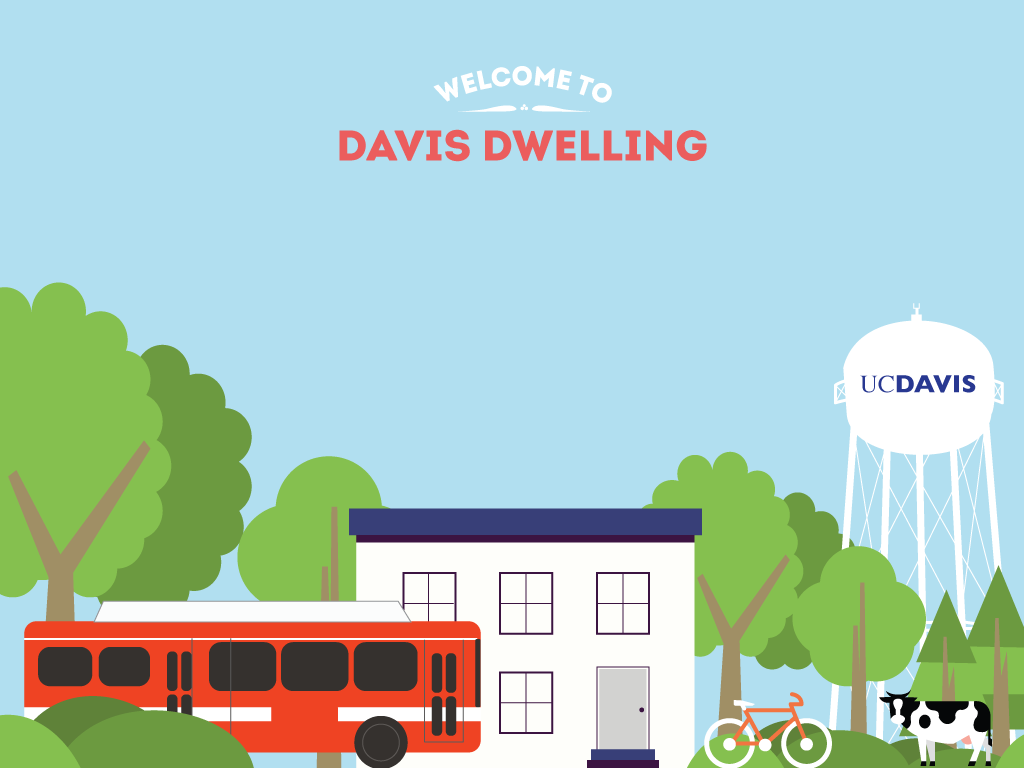
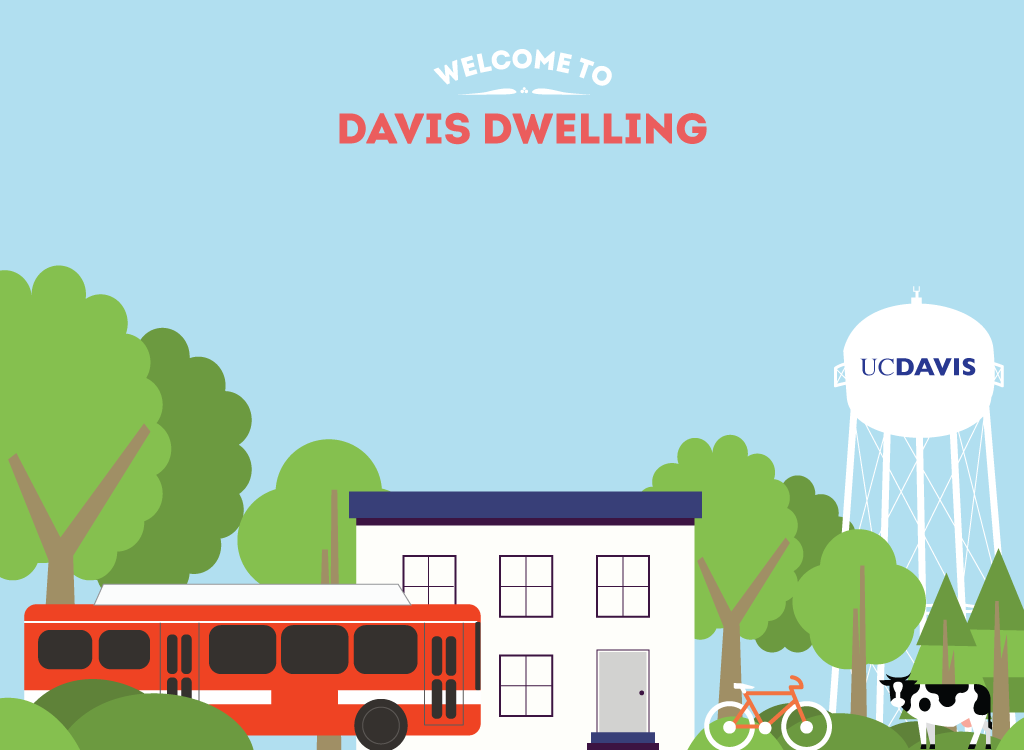
making changes in 4th prototype

diff --git a/4.0/searching.html b/4.0/searching.html
@@ -16,98 +16,101 @@
 
 </head>
 
-<body>
+<body id="searching">
 
     <header>
         <nav>
             <a href="https://validator.w3.org/check?uri=referer" target="_blank"> HTML  </a> |
             <a href="https://jigsaw.w3.org/css-validator/check/referer" target="_blank"> CSS</a>
+
         </nav>
     </header>
 
-    <p>click all options that you'd like to to see in your apartment</p>
-    <br>
+    <section id="searching-main">
+        <p>click all options that you'd like to to see in your apartment</p>
+        <br>
 
-    <section class="row container">
-        <section class="column category">
-            <h4 class="area">AREA OF DAVIS</h4>
-            <form class="area">
-                <input type="checkbox" name="area" value="north"> NORTH</input>
-                <br>
-                <input type="checkbox" name="area" value="west"> WEST</input>
-                <br>
-                <input type="checkbox" name="area" value="central"> CENTRAL</input>
-                <br>
-                <input type="checkbox" name="area" value="east"> EAST</input>
-                <br>
-                <input type="checkbox" name="area" value="east"> SOUTH</input>
-                <br>
-            </form>
-        </section>
+        <section class="row container">
+            <section class="column category">
+                <h4 class="area">AREA OF DAVIS</h4>
+                <form class="area">
+                    <input type="checkbox" name="area" value="north"> NORTH</input>
+                    <br>
+                    <input type="checkbox" name="area" value="west"> WEST</input>
+                    <br>
+                    <input type="checkbox" name="area" value="central"> CENTRAL</input>
+                    <br>
+                    <input type="checkbox" name="area" value="east"> EAST</input>
+                    <br>
+                    <input type="checkbox" name="area" value="east"> SOUTH</input>
+                    <br>
+                </form>
+            </section>
 
-        <section class="column category">
-            <h4 class="rooms">BEDROOMS &amp; BATHROOMS</h4>
-            <form class="rooms">
-                <input type="checkbox" name="room" value="four-bd"> 4 bedrooms</input>
-                <br>
-                <input type="checkbox" name="room" value="three-bd"> 3 bedrooms</input>
-                <br>
-                <input type="checkbox" name="room" value="two-bd"> 2 bedrooms</input>
-                <br>
-                <input type="checkbox" name="room" value="one-bd"> 1 bedroom</input>
-                <br>
-                <br>
-                <input type="checkbox" name="bath" value="three-bth"> 3 bathrooms</input>
-                <br>
-                <input type="checkbox" name="bath" value="two-bth"> 2 bathrooms</input>
-                <br>
-                <input type="checkbox" name="bath" value="one-bth"> 1 bathroom</input>
-                <br>
-            </form>
-        </section>
+            <section class="column category">
+                <h4 class="rooms">BEDROOMS &amp; BATHROOMS</h4>
+                <form class="rooms">
+                    <input type="checkbox" name="room" value="four-bd"> 4 bedrooms</input>
+                    <br>
+                    <input type="checkbox" name="room" value="three-bd"> 3 bedrooms</input>
+                    <br>
+                    <input type="checkbox" name="room" value="two-bd"> 2 bedrooms</input>
+                    <br>
+                    <input type="checkbox" name="room" value="one-bd"> 1 bedroom</input>
+                    <br>
+                    <br>
+                    <input type="checkbox" name="bath" value="three-bth"> 3 bathrooms</input>
+                    <br>
+                    <input type="checkbox" name="bath" value="two-bth"> 2 bathrooms</input>
+                    <br>
+                    <input type="checkbox" name="bath" value="one-bth"> 1 bathroom</input>
+                    <br>
+                </form>
+            </section>
 
-        <section class="column category">
-            <h4 class="prices">PRICES</h4>
-            <form class="prices">
-                <input type="checkbox" name="price" value="1000"> $0 - 1000</input>
-                <br>
-                <input type="checkbox" name="price" value="1500"> $1000 - 1500</input>
-                <br>
-                <input type="checkbox" name="price" value="2000"> $1500 - 2000</input>
-                <br>
-                <input type="checkbox" name="price" value="2500"> $2000 - 2500</input>
-                <br>
-                <input type="checkbox" name="price" value="3000"> $2500 - 3000</input>
-                <br>
-                <input type="checkbox" name="price" value="3500"> $3000 - 3500</input>
-                <br>
-                <br>
-            </form>
-        </section>
+            <section class="column category">
+                <h4 class="prices">PRICES</h4>
+                <form class="prices">
+                    <input type="checkbox" name="price" value="1000"> $0 - 1000</input>
+                    <br>
+                    <input type="checkbox" name="price" value="1500"> $1000 - 1500</input>
+                    <br>
+                    <input type="checkbox" name="price" value="2000"> $1500 - 2000</input>
+                    <br>
+                    <input type="checkbox" name="price" value="2500"> $2000 - 2500</input>
+                    <br>
+                    <input type="checkbox" name="price" value="3000"> $2500 - 3000</input>
+                    <br>
+                    <input type="checkbox" name="price" value="3500"> $3000 - 3500</input>
+                    <br>
+                    <br>
+                </form>
+            </section>
 
-        <section class="column category">
-            <h4 class="amenities">AMENITIES</h4>
-            <form class="amenities">
-                <input type="checkbox" name="amenities" value="laundry"> laundry</input>
-                <br>
-                <input type="checkbox" name="amenities" value="pool"> pool &amp; spa</input>
-                <br>
-                <input type="checkbox" name="amenities" value="gym"> fitness room</input>
-                <br>
-                <input type="checkbox" name="amenities" value="parking"> free parking</input>
-                <br>
-                <input type="checkbox" name="amenities" value="pets"> pet friendly</input>
-                <br>
-                <br>
-                <input type="checkbox" name="amenities" value="dishes"> dishwasher</input>
-                <br>
-                <input type="checkbox" name="amenities" value="ac-heat"> ac / heating</input>
-                <br>
-                <input type="checkbox" name="amenities" value="wifi"> internet access</input>
-                <br>
-                <input type="checkbox" name="amenities" value="patio"> patio</input>
-                <br>
-            </form>
+            <section class="column category">
+                <h4 class="amenities">AMENITIES</h4>
+                <form class="amenities">
+                    <input type="checkbox" name="amenities" value="laundry"> laundry</input>
+                    <br>
+                    <input type="checkbox" name="amenities" value="pool"> pool &amp; spa</input>
+                    <br>
+                    <input type="checkbox" name="amenities" value="gym"> fitness room</input>
+                    <br>
+                    <input type="checkbox" name="amenities" value="parking"> free parking</input>
+                    <br>
+                    <input type="checkbox" name="amenities" value="pets"> pet friendly</input>
+                    <br>
+                    <br>
+                    <input type="checkbox" name="amenities" value="dishes"> dishwasher</input>
+                    <br>
+                    <input type="checkbox" name="amenities" value="ac-heat"> ac / heating</input>
+                    <br>
+                    <input type="checkbox" name="amenities" value="wifi"> internet access</input>
+                    <br>
+                    <input type="checkbox" name="amenities" value="patio"> patio</input>
+                    <br>
+                </form>
+            </section>
         </section>
     </section>
 

diff --git a/4.0/style.css b/4.0/style.css
@@ -13,12 +13,23 @@
 /*---------------html----------------------*/
 
 body {
-    height: 768px;
+    height: 750px;
     width: 1024px;
     font-family: 'IntroBlack';
+}
+
+body#main-page {
     background-image: url('../images/main.png');
     background-size: cover;
     background-position: center;
+    background-repeat: no-repeat;
+}
+
+body#searching {
+    background-image: url('../images/searching.png');
+    background-size: cover;
+    background-position: center;
+    background-repeat: no-repeat;
 }
 
 footer {
@@ -184,10 +195,9 @@ p {
 }
 
 .button {
-    background-color: white;
     padding: 15px 30px 15px 30px;
     display: inline-block;
-    border: 1px solid black;
+    border: 2px solid black;
 }
 
 .navigating {

diff --git a/4.0/index.html b/4.0/index.html
@@ -19,7 +19,7 @@
 
 </head>
 
-<body>
+<body id="main-page">
 
 
     <header>
